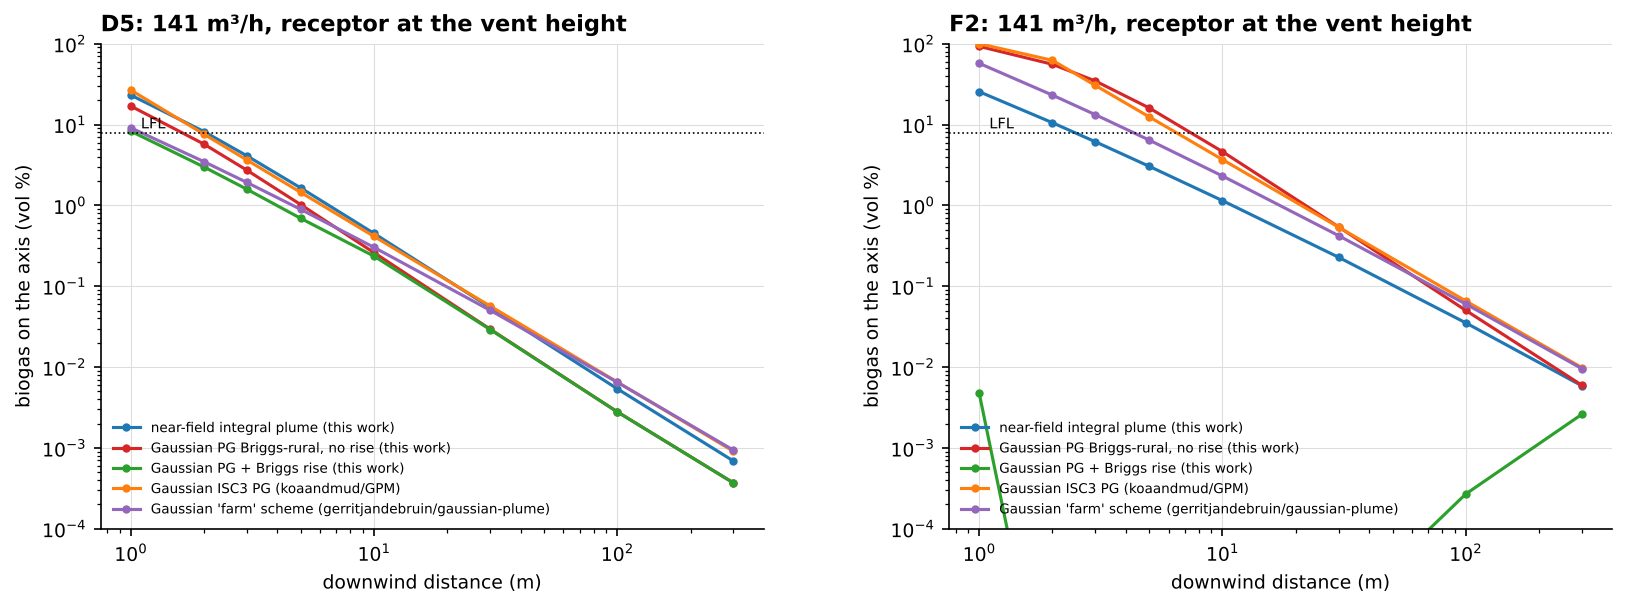
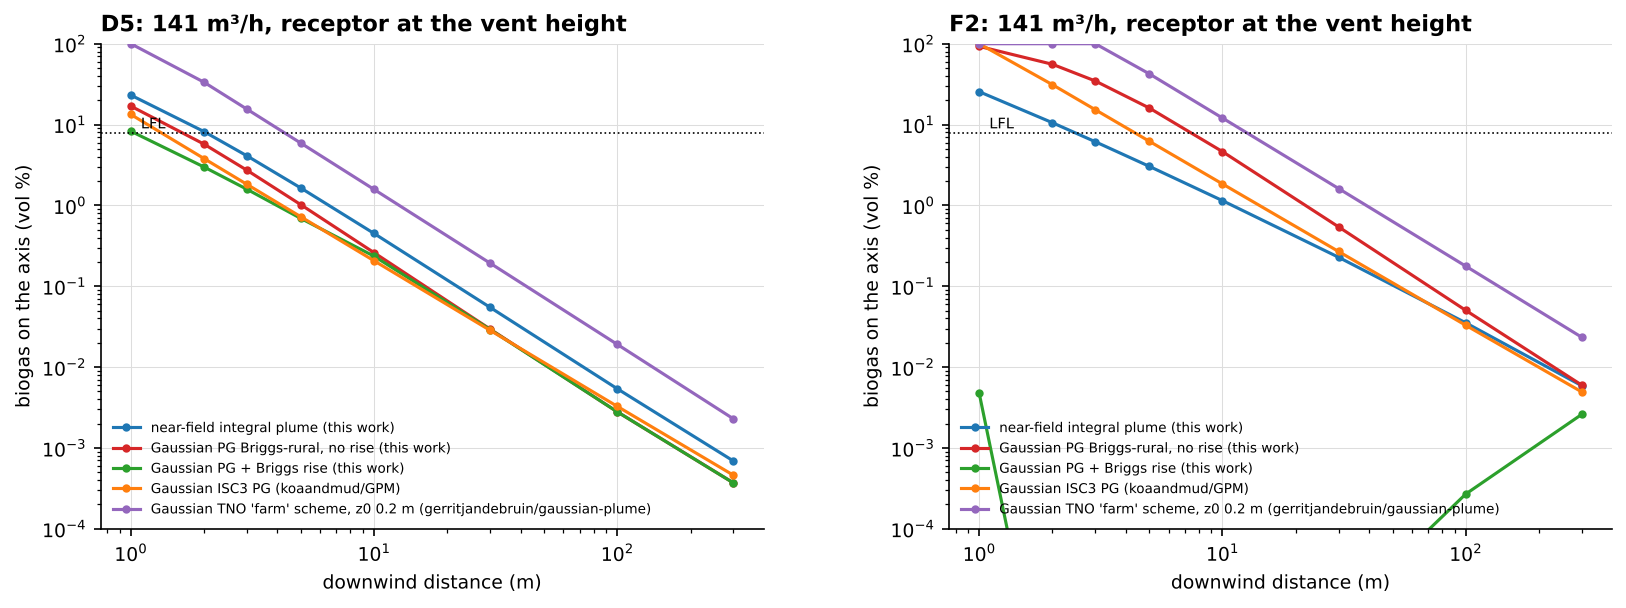
Dispersion-model consistency check (dispersion_check.py)
- sigma schemes vs PG-Turner table: Briggs and ISC3 (GPM) within 20-30 %; TNO 'farm' is a relative-diffusion scheme, not comparable
- corrected the model comparison: one elevated-source formula for every scheme (was Q/(pi u sy sz) for the externals), package conventions for z0 (roughness, 0.2 m) and tc
- mass balance closes to 1.000 for all schemes; unit check of the package's concentration routine (ppb for g/s)
- near-field 1/pi form documented as 2x the free plume at 1-10 m (decision pending); dense-gas applicability by CH4 fraction
- README 5b.3 and limitations updated

Claude-Session: https://claude.ai/code/session_015w7cPEZmBmH3CRSdnbx17g

diff --git a/dynamic_qra/dispersion_check.py b/dynamic_qra/dispersion_check.py
@@ -1,0 +1,159 @@
+# -*- coding: utf-8 -*-
+"""
+Consistency check of the dispersion models used or pulled from GitHub, before any of them is trusted in the QRA.
+
+What is checked
+  1. The sigma schemes themselves: Briggs (1973) open-country (this work), the EPA ISC3 fits of the Pasquill-Gifford-Turner
+     curves (koaandmud/GPM) and the TNO 'farm' scheme (gerritjandebruin/gaussian-plume), at 10 m - 1 km for classes D and F,
+     against the tabulated PG-Turner values that every textbook reproduces.
+  2. The concentration formula: all three sigma schemes run through ONE elevated-source Gaussian with ground reflection
+     (the earlier model_comparison.csv evaluated the external schemes with the ground-level form Q/(pi u sy sz), i.e. 2x).
+  3. Mass balance: the integral of u C over the half-space must return Q.
+  4. The near-field integral plume: the 1/pi (fully reflected) form used so far against the reflected form with the vent
+     outlet h_v above the roof, which tends to the free plume (1/2pi) when sigma_z << h_v.
+  5. Unit check of the external package's own concentration routine against the same formula.
+  6. Density: when would a dense-gas model (HEGADAS / HeavyGas.jl) apply at all.
+Outputs: out/dispersion_check_*.csv, fig/dispersion_check.png
+"""
+import os, sys, math
+import numpy as np, pandas as pd
+HERE = os.path.dirname(os.path.abspath(__file__)); ROOT = os.path.abspath(os.path.join(HERE, '..')); sys.path.insert(0, HERE)
+import consequence as cq, gaussian_farfield as gf
+OUT = os.path.join(HERE, 'out'); FIG = os.path.join(HERE, 'fig'); os.makedirs(OUT, exist_ok=True); os.makedirs(FIG, exist_ok=True)
+EXT = os.path.join(ROOT, 'external')
+Z0 = 0.2            # roughness length (m) for the TNO scheme: open site with low buildings; the package's own examples use 0.2
+H_S = 18.25         # vent height above grade (m)
+H_V = 1.0           # vent outlet above the digester roof (m)
+Q = 141.0 / 3600    # m3/s at the minimum stable opening
+
+# PG-Turner reference values (Turner 1970 workbook curves, as tabulated in Seinfeld & Pandis / de Nevers), metres
+PG_REF = {('D', 100): (8.1, 4.6), ('D', 1000): (68.0, 32.0), ('F', 100): (4.0, 2.2), ('F', 1000): (34.0, 14.0)}
+
+def ext_gpm(cls, x):
+    p = os.path.join(EXT, 'GPM')
+    if not os.path.exists(os.path.join(p, 'calc_sigmas.py')): return None
+    sys.path.insert(0, p); from calc_sigmas import calc_sigmas; sys.path.pop(0)
+    return calc_sigmas({'A': 1, 'B': 2, 'C': 3, 'D': 4, 'E': 5, 'F': 6}[cls], np.asarray(x, float))
+
+def ext_farm(cls, x, u, z0=Z0, mode='farm'):
+    """the package's own convention: z0 = roughness length (its docstring says source height, its examples pass z0 = 0.2 next to hs),
+    tc = calculate_tc(dx, u) = dx / (3600 u), i.e. travel time in hours (the author left a 'TODO: is this correct?')"""
+    p = os.path.join(EXT, 'gaussian-plume', 'src')
+    if not os.path.exists(os.path.join(p, 'GaussianPlume', 'GPFunctions.py')): return None
+    sys.path.insert(0, p); sys.path.insert(0, os.path.join(p, 'GaussianPlume'))
+    import GPFunctions as GPF, GPConstants as GPC
+    sys.path.pop(0); sys.path.pop(0)
+    dc = GPC.dispersion_constants(mode); idx = {'A': 0, 'B': 1, 'C': 2, 'D': 3, 'E': 4, 'F': 5}[cls]
+    x = np.asarray(x, float); tc = GPF.calculate_tc(x, u)
+    return GPF.calculate_sigma(x, z0, tc, dc, idx)
+
+def gauss_axis(sy, sz, u, z_rec=H_S, h=H_S):
+    """elevated source, receptor on the axis at z_rec, ground reflection: the one formula used for every scheme here"""
+    return np.minimum(1.0, Q / (2 * math.pi * u * sy * sz) * (np.exp(-(z_rec - h) ** 2 / (2 * sz ** 2)) + np.exp(-(z_rec + h) ** 2 / (2 * sz ** 2))))
+
+def mass_balance(sy, sz, u, h=H_S, images=2):
+    """integral of u C dy dz over y in R, z >= 0, divided by Q"""
+    y = np.linspace(-8 * sy, 8 * sy, 801); z = np.linspace(0, h + 8 * sz, 1601); Y, Z = np.meshgrid(y, z)
+    c = Q / (2 * math.pi * u * sy * sz) * np.exp(-Y ** 2 / (2 * sy ** 2)) * (np.exp(-(Z - h) ** 2 / (2 * sz ** 2)) + (np.exp(-(Z + h) ** 2 / (2 * sz ** 2)) if images == 2 else 0))
+    return float(np.trapezoid(np.trapezoid(c, y, axis=1), z) * u / Q)
+
+def main():
+    pd.set_option('display.width', 250); pd.set_option('display.max_columns', 30)
+    xs = np.array([10, 30, 100, 300, 1000], float)
+    # ---- 1. sigma schemes
+    rows = []
+    for cls, u in (('D', 5.0), ('F', 2.0)):
+        b = cq.sig(xs, cls); g = ext_gpm(cls, xs); f = ext_farm(cls, xs, u); f_wrong = ext_farm(cls, xs, u, z0=H_S)
+        for i, x in enumerate(xs):
+            r = dict(cls=cls, x_m=x, sy_Briggs=b[0][i], sz_Briggs=b[1][i])
+            if g is not None: r.update(sy_ISC3=g[0][i], sz_ISC3=g[1][i])
+            if f is not None: r.update(sy_farm_z0_02=f[0][i], sz_farm_z0_02=f[1][i], sy_farm_z0_18=f_wrong[0][i], sz_farm_z0_18=f_wrong[1][i])
+            ref = PG_REF.get((cls, int(x)));  r.update(sy_PG_table=ref[0] if ref else np.nan, sz_PG_table=ref[1] if ref else np.nan)
+            rows.append(r)
+    sg = pd.DataFrame(rows); sg.to_csv(os.path.join(OUT, 'dispersion_check_sigmas.csv'), index=False, float_format='%.3g')
+    print('1. sigma schemes (m)'); print(sg.round(3).to_string(index=False))
+
+    # ---- 2. one concentration formula, three sigma schemes, plus the near-field plume
+    xs2 = np.array([1, 2, 3, 5, 10, 30, 100, 300, 1000], float); rows = []
+    for cls, u in (('D', 5.0), ('F', 2.0)):
+        b = cq.sig(np.maximum(xs2, 1e-3), cls); g = ext_gpm(cls, xs2); f = ext_farm(cls, xs2, u)
+        near = cq.plume_centreline(Q, u, cls, xs2)
+        for i, x in enumerate(xs2):
+            r = dict(cls=cls, x_m=x, near_field_plume=near[i] * 100, gauss_Briggs=gauss_axis(b[0][i], b[1][i], u) * 100)
+            if g is not None: r['gauss_ISC3'] = gauss_axis(g[0][i], g[1][i], u) * 100
+            if f is not None: r['gauss_farm'] = gauss_axis(f[0][i], f[1][i], u) * 100
+            rows.append(r)
+    cc = pd.DataFrame(rows); cc.to_csv(os.path.join(OUT, 'dispersion_check_conc.csv'), index=False, float_format='%.4g')
+    print('\n2. biogas on the axis at the vent height (vol %), 141 m3/h, same Gaussian formula, different sigmas'); print(cc.round(4).to_string(index=False))
+
+    # ---- 3. mass balance
+    rows = []
+    for cls, u in (('D', 5.0), ('F', 2.0)):
+        for x in (10.0, 100.0, 1000.0):
+            sy, sz = cq.sig(x, cls); rows.append(dict(cls=cls, x_m=x, scheme='Briggs', sy=sy, sz=sz, int_uC_dydz_over_Q=mass_balance(sy, sz, u)))
+            g = ext_gpm(cls, [x])
+            if g is not None: rows.append(dict(cls=cls, x_m=x, scheme='ISC3', sy=g[0][0], sz=g[1][0], int_uC_dydz_over_Q=mass_balance(g[0][0], g[1][0], u)))
+            f = ext_farm(cls, [x], u)
+            if f is not None: rows.append(dict(cls=cls, x_m=x, scheme='farm', sy=f[0][0], sz=f[1][0], int_uC_dydz_over_Q=mass_balance(f[0][0], f[1][0], u)))
+    mb = pd.DataFrame(rows); mb.to_csv(os.path.join(OUT, 'dispersion_check_mass.csv'), index=False, float_format='%.4g')
+    print('\n3. mass balance (should be 1.000)'); print(mb.round(4).to_string(index=False))
+
+    # ---- 4. near-field form: 1/pi (as used) vs reflected with h_v vs free plume
+    rows = []
+    for wname, (cls, u) in (('D5', ('D', 5.0)), ('F2', ('F', 2.0))):
+        for x in (1.0, 2.0, 3.0, 5.0, 10.0):
+            sy, sz, zr = cq.plume_sigma(Q, u, cls, x)
+            c_pi = min(1.0, Q / (math.pi * u * sy * sz)); c_free = min(1.0, Q / (2 * math.pi * u * sy * sz))
+            c_ref = min(1.0, Q / (2 * math.pi * u * sy * sz) * (1 + math.exp(-2 * (H_V + zr) ** 2 / sz ** 2)))
+            rows.append(dict(weather=wname, x_m=x, sigma_y=sy, sigma_z=sz, rise_m=zr, C_1_over_pi=c_pi * 100, C_reflected_hv1m=c_ref * 100, C_free_plume=c_free * 100,
+                             H2S_ppm_1_over_pi=c_pi * cq.yH2S * 1e6, H2S_ppm_reflected=c_ref * cq.yH2S * 1e6))
+    nf = pd.DataFrame(rows); nf.to_csv(os.path.join(OUT, 'dispersion_check_nearfield.csv'), index=False, float_format='%.4g')
+    print('\n4. near-field plume on the axis (vol %, H2S ppm): the 1/pi form used so far vs reflection with the outlet 1 m above the roof vs a free plume'); print(nf.round(3).to_string(index=False))
+    # LFL distances under the two forms
+    for wname, (cls, u) in (('D5', ('D', 5.0)), ('F2', ('F', 2.0))):
+        x = np.logspace(-2, 2, 2000); sy = np.zeros_like(x); sz = np.zeros_like(x); zr = np.zeros_like(x)
+        for i, xi in enumerate(x): sy[i], sz[i], zr[i] = cq.plume_sigma(Q, u, cls, xi)
+        c_pi = Q / (math.pi * u * sy * sz); c_ref = Q / (2 * math.pi * u * sy * sz) * (1 + np.exp(-2 * (H_V + zr) ** 2 / sz ** 2))
+        d_pi = x[np.argmax(c_pi < cq.LFL)]; d_ref = x[np.argmax(c_ref < cq.LFL)]
+        print(f'   LFL distance {wname}: 1/pi form {d_pi:.2f} m, reflected form {d_ref:.2f} m')
+
+    # ---- 5. unit check of the package's own concentration routine (g/s -> ppm) against the same formula
+    p = os.path.join(EXT, 'gaussian-plume', 'src')
+    if os.path.exists(os.path.join(p, 'GaussianPlume', 'GPFunctions.py')):
+        sys.path.insert(0, p); sys.path.insert(0, os.path.join(p, 'GaussianPlume')); import GPFunctions as GPF, GPConstants as GPC; sys.path.pop(0); sys.path.pop(0)
+        sy, sz = 10.0, 5.0; u = 5.0; M = 16.04; qs_gs = 1.0                       # 1 g/s CH4
+        own = qs_gs / M * 0.0224 / (2 * math.pi * u * sy * sz) * (1 + math.exp(-(2 * H_S) ** 2 / (2 * sz ** 2))) * 1e6     # mol/s -> m3/s at 0 C
+        pkg = float(GPF.calculate_concentration(qs_gs, u, sy, sz, 0.0, H_S, H_S, 1000.0, M))
+        print(f'\n5. package calculate_concentration: {pkg:.4g} ppm vs the same formula with 22.4 L/mol: {own:.4g} ppm  (ratio {pkg / own:.3f}; the package uses {GPC.liter_per_mole_air} L/mol)')
+
+    # ---- 6. when would a dense-gas model apply
+    y = np.linspace(0.40, 0.75, 8); rho_rel = (y * 16.04 + (1 - y) * 44.01) / 28.96 * (288.15 / 308.15)
+    print('\n6. relative density of the vented gas (35 C) vs CH4 fraction: ' + ', '.join(f'{yy:.2f}->{r:.2f}' for yy, r in zip(y, rho_rel)) + '  -> dense (> 1) only below ~52 % CH4 at 35 C; HEGADAS-type models need rho_g > rho_a')
+
+    # ---- figure
+    import matplotlib; matplotlib.use('Agg'); import matplotlib.pyplot as plt
+    plt.rcParams.update({'font.family': 'DejaVu Sans', 'font.size': 9, 'axes.grid': True, 'grid.color': '#dddddd', 'grid.linewidth': 0.5, 'axes.spines.top': False, 'axes.spines.right': False, 'legend.frameon': False, 'axes.titleweight': 'bold'})
+    C = ['#1f77b4', '#d62728', '#2ca02c', '#ff7f0e']
+    x = np.logspace(0, 3, 300)
+    fig, ax = plt.subplots(1, 3, figsize=(15, 4.2), gridspec_kw=dict(wspace=0.3))
+    for j, (cls, u, ls) in enumerate((('D', 5.0, '-'), ('F', 2.0, '--'))):
+        b = cq.sig(x, cls); g = ext_gpm(cls, x); f = ext_farm(cls, x, u)
+        ax[0].plot(x, b[0], color=C[0], ls=ls, label=f'Briggs rural {cls}'); ax[1].plot(x, b[1], color=C[0], ls=ls, label=f'Briggs rural {cls}')
+        if g is not None: ax[0].plot(x, g[0], color=C[1], ls=ls, label=f'ISC3 PG fit {cls} (GPM)'); ax[1].plot(x, g[1], color=C[1], ls=ls, label=f'ISC3 PG fit {cls} (GPM)')
+        if f is not None: ax[0].plot(x, f[0], color=C[2], ls=ls, label=f"TNO 'farm' {cls}, z0 0.2 m"); ax[1].plot(x, f[1], color=C[2], ls=ls, label=f"TNO 'farm' {cls}, z0 0.2 m")
+        for (c2, xr), (syr, szr) in PG_REF.items():
+            if c2 == cls: ax[0].plot(xr, syr, 'k*', ms=9); ax[1].plot(xr, szr, 'k*', ms=9)
+        bb = cq.sig(np.maximum(x, 1e-3), cls); near = cq.plume_centreline(Q, u, cls, x)
+        ax[2].plot(x, gauss_axis(bb[0], bb[1], u) * 100, color=C[0], ls=ls, label=f'Gaussian, Briggs {cls}')
+        if g is not None: ax[2].plot(x, gauss_axis(g[0], g[1], u) * 100, color=C[1], ls=ls, label=f'Gaussian, ISC3 {cls}')
+        if f is not None: ax[2].plot(x, gauss_axis(f[0], f[1], u) * 100, color=C[2], ls=ls, label=f"Gaussian, 'farm' {cls}")
+        ax[2].plot(x, near * 100, color=C[3], ls=ls, label=f'near-field plume {cls}')
+    ax[0].plot([], [], 'k*', label='PG-Turner table (100 m, 1 km)')
+    for a, t, yl in zip(ax, ('(a) sigma_y', '(b) sigma_z', '(c) axis concentration at the vent height, 141 m3/h')[:3], ('σy (m)', 'σz (m)', 'biogas (vol %)')):
+        a.set_xscale('log'); a.set_yscale('log'); a.set_xlabel('downwind distance (m)'); a.set_ylabel(yl); a.set_title(t, loc='left'); a.legend(fontsize=6.5)
+    ax[2].axhline(cq.LFL * 100, color='k', lw=0.6, ls=':'); ax[2].text(1.1, cq.LFL * 100 * 1.15, 'LFL', fontsize=7); ax[2].set_ylim(1e-4, 100)
+    ax[0].axvspan(1, 100, color='#eeeeee', zorder=0); ax[1].axvspan(1, 100, color='#eeeeee', zorder=0); ax[0].text(1.3, 20, 'PG curves not defined\nbelow 100 m', fontsize=7, color='#555555')
+    fig.savefig(os.path.join(FIG, 'dispersion_check.png'), dpi=150, bbox_inches='tight'); plt.close(fig); print('fig ok')
+
+if __name__ == '__main__':
+    main()

diff --git a/dynamic_qra/gaussian_farfield.py b/dynamic_qra/gaussian_farfield.py
@@ -59,16 +59,23 @@ def ext_gpm_sigmas(cls, x):
     sy, sz = calc_sigmas(cat, np.asarray(x, float))
     return sy, sz
 
-def ext_gplume_sigmas(cls, x, u, h_s):
+def ext_gplume_sigmas(cls, x, u, z0=0.2):
+    """TNO 'farm' scheme, called with the package's own conventions (checked in dispersion_check.py): z0 is the ROUGHNESS LENGTH
+    (its docstring says 'source height', but its examples pass z0 = 0.2 next to a separate hs), tc = calculate_tc(dx, u) = dx/(3600 u).
+    sigma_y grows with travel time^0.35, i.e. it is a relative-diffusion (instantaneous plume) parameterisation, not a 10-min average"""
     p = os.path.join(EXT, 'gaussian-plume', 'src')
     if not os.path.exists(os.path.join(p, 'GaussianPlume', 'GPFunctions.py')): return None
     sys.path.insert(0, p); sys.path.insert(0, os.path.join(p, 'GaussianPlume'))      # the package uses bare intra-package imports
     import GPFunctions as GPF, GPConstants as GPC
     sys.path.pop(0); sys.path.pop(0)
     dc = GPC.dispersion_constants('farm'); idx = {'A': 0, 'B': 1, 'C': 2, 'D': 3, 'E': 4, 'F': 5}[cls]
-    x = np.asarray(x, float); tc = x / (3600 * u)
-    sy, sz = GPF.calculate_sigma(x, h_s, tc, dc, idx)
+    x = np.asarray(x, float); tc = GPF.calculate_tc(x, u)
+    sy, sz = GPF.calculate_sigma(x, z0, tc, dc, idx)
     return sy, sz
+
+def gaussian_from_sigmas(Q, u, sy, sz, z_rec, h_s):
+    """the same elevated-source formula as gaussian(), for sigmas supplied by an external scheme"""
+    return np.minimum(1.0, Q / (2 * math.pi * u * sy * sz) * (np.exp(-(z_rec - h_s) ** 2 / (2 * sz ** 2)) + np.exp(-(z_rec + h_s) ** 2 / (2 * sz ** 2))))
 
 def main():
     yH2S = cq.yH2S; h_s = 18.25
@@ -90,12 +97,12 @@ def main():
         near = cq.plume_centreline(Q, u, cls, xs)
         gau = gaussian(Q, u, cls, xs, h_s, h_s, rise=False); gau_r = gaussian(Q, u, cls, xs, h_s, h_s, rise=True)
         d = {'x_m': xs, 'near-field integral plume (this work)': near * 1e2, 'Gaussian PG Briggs-rural, no rise (this work)': gau * 1e2, 'Gaussian PG + Briggs rise (this work)': gau_r * 1e2}
-        s = ext_gpm_sigmas(cls, xs)
+        s = ext_gpm_sigmas(cls, xs)                                   # same formula for every scheme (an earlier version used Q/(pi u sy sz) here: 2x)
         if s is not None:
-            sy, sz = s; d['Gaussian ISC3 PG (koaandmud/GPM)'] = np.minimum(1, Q / (math.pi * u * np.maximum(sy, 1e-3) * np.maximum(sz, 1e-3))) * 1e2
-        s = ext_gplume_sigmas(cls, xs, u, h_s)
+            sy, sz = s; d['Gaussian ISC3 PG (koaandmud/GPM)'] = gaussian_from_sigmas(Q, u, np.maximum(sy, 1e-3), np.maximum(sz, 1e-3), h_s, h_s) * 1e2
+        s = ext_gplume_sigmas(cls, xs, u)
         if s is not None:
-            sy, sz = s; d["Gaussian 'farm' scheme (gerritjandebruin/gaussian-plume)"] = np.minimum(1, Q / (math.pi * u * np.maximum(sy, 1e-3) * np.maximum(sz, 1e-3))) * 1e2
+            sy, sz = s; d["Gaussian TNO 'farm' scheme, z0 0.2 m (gerritjandebruin/gaussian-plume)"] = gaussian_from_sigmas(Q, u, np.maximum(sy, 1e-3), np.maximum(sz, 1e-3), h_s, h_s) * 1e2
         cdf = pd.DataFrame(d); cdf.insert(0, 'weather', wname); comp.append(cdf)
     comp = pd.concat(comp, ignore_index=True); comp.to_csv(os.path.join(OUT, 'model_comparison.csv'), index=False, float_format='%.4g')
     print('\nbiogas on the plume axis (vol %), 141 m3/h, receptor at the vent height:'); print(comp.round(4).to_string(index=False))

diff --git a/colab/run_dynamic_qra.py b/colab/run_dynamic_qra.py
@@ -21,7 +21,7 @@ def main():
     ap = argparse.ArgumentParser(description=__doc__, formatter_class=argparse.RawDescriptionHelpFormatter)
     ap.add_argument('--updating', action='store_true', help='also run the Bayesian-updating demonstration')
     a = ap.parse_args()
-    for s in ('source_terms.py', 'consequence.py', 'gaussian_farfield.py', 'risk.py'): run(s)
+    for s in ('source_terms.py', 'consequence.py', 'gaussian_farfield.py', 'dispersion_check.py', 'risk.py'): run(s)
     if a.updating: run('updating.py')
     run('fig_qra.py')
     print('finished. Results: dynamic_qra/out, figures: dynamic_qra/fig')

diff --git a/README.md b/README.md
@@ -212,7 +212,9 @@ The tornado ranks the assumptions. For the 100 % case the result moves most with
 
 Two design options are costed in risk terms (`qra_design_options.png`). A, a position switch or a fixed CH₄/H₂S detector at the PVRV, removes the unplanned climbs (roof presence while venting × 0.2, plume stay × 0.25) and takes the 100 % case to 4.4 × 10⁻⁴; it does nothing for the blocked-PVRV chain. B, an independent second relief path on its own nozzle with a remotely operated vent, is the one that works on the dominant chain: 7.2 × 10⁻⁵ to 3.7 × 10⁻⁴ depending on the case. Together they bring every case to 2.5 × 10⁻⁵ – 1.0 × 10⁻⁴, an order of magnitude below the HSE worker line.
 
-The far-field Gaussian (`gaussian_farfield.py`) places the H₂S endpoints beyond the roof: at the vent height AEGL-2 is reached within 2–3 m and AEGL-1 within 15–40 m in neutral weather, while at ground level nothing exceeds AEGL-1 and the odour threshold (0.01 ppm) extends to 150–1,300 m depending on stability — a nuisance, not a hazard. The comparison with two independent GitHub Gaussian codes (EPA ISC3 Pasquill–Gifford fits in `koaandmud/GPM`, the Dutch farm scheme in `gerritjandebruin/gaussian-plume`) agrees within a factor of 2 beyond 10 m for class D and shows why the near field needs the integral plume: in class F the Pasquill–Gifford sigmas are millimetres at 1–3 m and the Gaussian gives either no dilution at all or, with plume rise, none of the plume at the receptor. HEGADAS-type dense-gas models were not used because the gas is lighter than air (relative density 0.80–0.91 over the whole composition range).
+The far-field Gaussian (`gaussian_farfield.py`) places the H₂S endpoints beyond the roof: at the vent height AEGL-2 is reached within 2–3 m and AEGL-1 within 15–40 m in neutral weather, while at ground level nothing exceeds AEGL-1 and the odour threshold (0.01 ppm) extends to 150–1,300 m depending on stability — a nuisance, not a hazard.
+
+**Consistency of the dispersion models** (`dispersion_check.py`, `dispersion_check.png`). Before any of the pulled codes was used as a reference it was read and run under controlled conditions, and the first version of the comparison turned out to be wrong in two places: the external schemes had been evaluated with the ground-level form Q/(π u σy σz), twice the elevated-source form used for our own Gaussian, and the TNO package had been called with the vent height as its `z0`, which is in fact the roughness length (its docstring says "source height"; its own examples pass `z0 = 0.2` next to a separate `hs`). Both are corrected. What the check now says: the Briggs (1973) open-country sigmas used here and the EPA ISC3 fits of the Pasquill–Gifford–Turner curves in `koaandmud/GPM` reproduce the tabulated PG values at 100 m and 1 km within 20–30 % (σz in class F is the widest gap, 1.6 vs 2.2 m at 100 m) and, run through one and the same Gaussian, agree within a factor of 1.5 beyond 10 m; below 100 m both are extrapolations, since the PG curves are not defined there. The TNO 'farm' scheme in `gerritjandebruin/gaussian-plume` is not a 10-min-average scheme at all: its σy grows with the travel time to the power 0.35 — a relative-diffusion (instantaneous plume) parameterisation from mobile transect measurements of farm emissions — and with the correct `z0` it gives plumes four times narrower and axis concentrations 3–7 times higher than the PG schemes. It is therefore reported but not used; its concentration routine also returns ppb for a source in g/s, which its documentation does not say. The mass balance ∫∫ u C dy dz = Q closes to 1.000 for every scheme. Two things the check turned up about our own near-field plume are recorded for decision: it uses the fully reflected form Q/(π u σy σz), which is twice the free-plume value whenever σz is smaller than the outlet height above the roof — at 1–10 m from the vent that is always, so the near-field concentrations (and with them the H₂S dose, ∝ C^1.9) carry a factor-2 conservatism and the LFL distance 2.1 m would be 1.3 m in the reflected form; and in class F the Pasquill–Gifford sigmas are millimetres at 1–3 m, which is why the near field needs the integral plume in the first place. HEGADAS-type dense-gas models (`HeavyGas.jl`, an HGSYSTEM port) cannot run for this gas: their Richardson number is g H (1 − ρa/ρm)/u*², negative for a mixture lighter than air, and the vented gas is lighter than air (relative density 0.80–0.91 at 35 °C) unless the methane content drops below about 52 %.
 
 ### 5b.4 What to do with it
 
@@ -231,7 +233,7 @@ pressure_model:  run_base.py {1,2,3}
                  run_full100.py {1,2,3} 0.05;  run_full100.py 1 0.0;  sum_full100.py
                  run_onoff.py {1,2,3} {1.0,0.8,0.6} 0.05;  run_onoff.py 1 {1.0,0.8,0.6} 0.0;  sum_onoff.py;  fig_episode.py
 bayesian_network: run_onoff9.py;  sens_v4.py;  fig_onoff9.py   (optionally make_v3_inputs.py, pv_bn.py, bn_sens_figs.py, buffer_band.py, crit_weather.py)
-dynamic_qra:      source_terms.py;  consequence.py;  gaussian_farfield.py;  risk.py;  updating.py;  fig_qra.py
+dynamic_qra:      source_terms.py;  consequence.py;  gaussian_farfield.py;  dispersion_check.py;  risk.py;  updating.py;  fig_qra.py
 ```
 
 All random draws use a fixed seed, so the numbers in `results/` should come back to the last digit on any machine. The reference tables kept in `results/` are `summary_base.csv`, `summary_stop.csv`, `full100_summary.csv`, `onoff_summary.csv`, `onoff_f100_failures.csv`, `bn_onoff_9cases.csv`, `bn_sens_v4_case1_f100.csv`, `bn_sens_v4_case1_f80.csv` and `bn_summary.json`, next to the key figures.
@@ -250,7 +252,7 @@ Read these before quoting a number.
 - **Initiating events are independent and the slices are static.** Common causes (a cold snap freezing the vent valve, the flare and a drain line at once) are only partly captured by the winter node, and a slice does not change the prior of the next one.
 - **One year, one site.** The PyADM1ODE production and the Pohang weather are a single realisation; other feedstocks, holder sizes or climates need their own input files, which is exactly what `data/` is for.
 - **The QRA exposure model is judgement.** The detection channels and the actions are read from the P&ID and the alarm list, but the probability that a response puts someone on the roof, the 2 h/week of routine roof work, the time spent at the valve, whether they stand in the plume, whether they carry a detector, and the whole blocked-PVRV timing sub-model (fouling 0.1, manual vent fouled 0.3, fatality at failure 0.1) have no site data behind them yet. The tornado shows the result moves by half an order of magnitude within plausible ranges; the ranking of the design options does not.
-- **The consequence models are analytical.** Near-field plume, calm plume and a transient treatment of the seal-failure puff; they are meant to be cross-checked with PHAST or ALOHA for a few points, not to replace them.
+- **The consequence models are analytical.** Near-field plume, calm plume and a transient treatment of the seal-failure puff; they are meant to be cross-checked with PHAST or ALOHA for a few points, not to replace them. The near-field plume uses the fully reflected Gaussian form, a factor of 2 above the free plume at 1–10 m from the vent (`dispersion_check.py`); the external Gaussian codes agree with ours only where the Pasquill–Gifford curves are defined (≥ 100 m), and the TNO farm scheme is an instantaneous-plume parameterisation that is not comparable.
 - **No validation against measured valve openings at this plant.** The cross-check is between the two models (79.7 / 15.8 / 1.3 vs 80 / 21 / 3) and against the orders of magnitude reported for European plants, not against site measurements.
 
 ---
